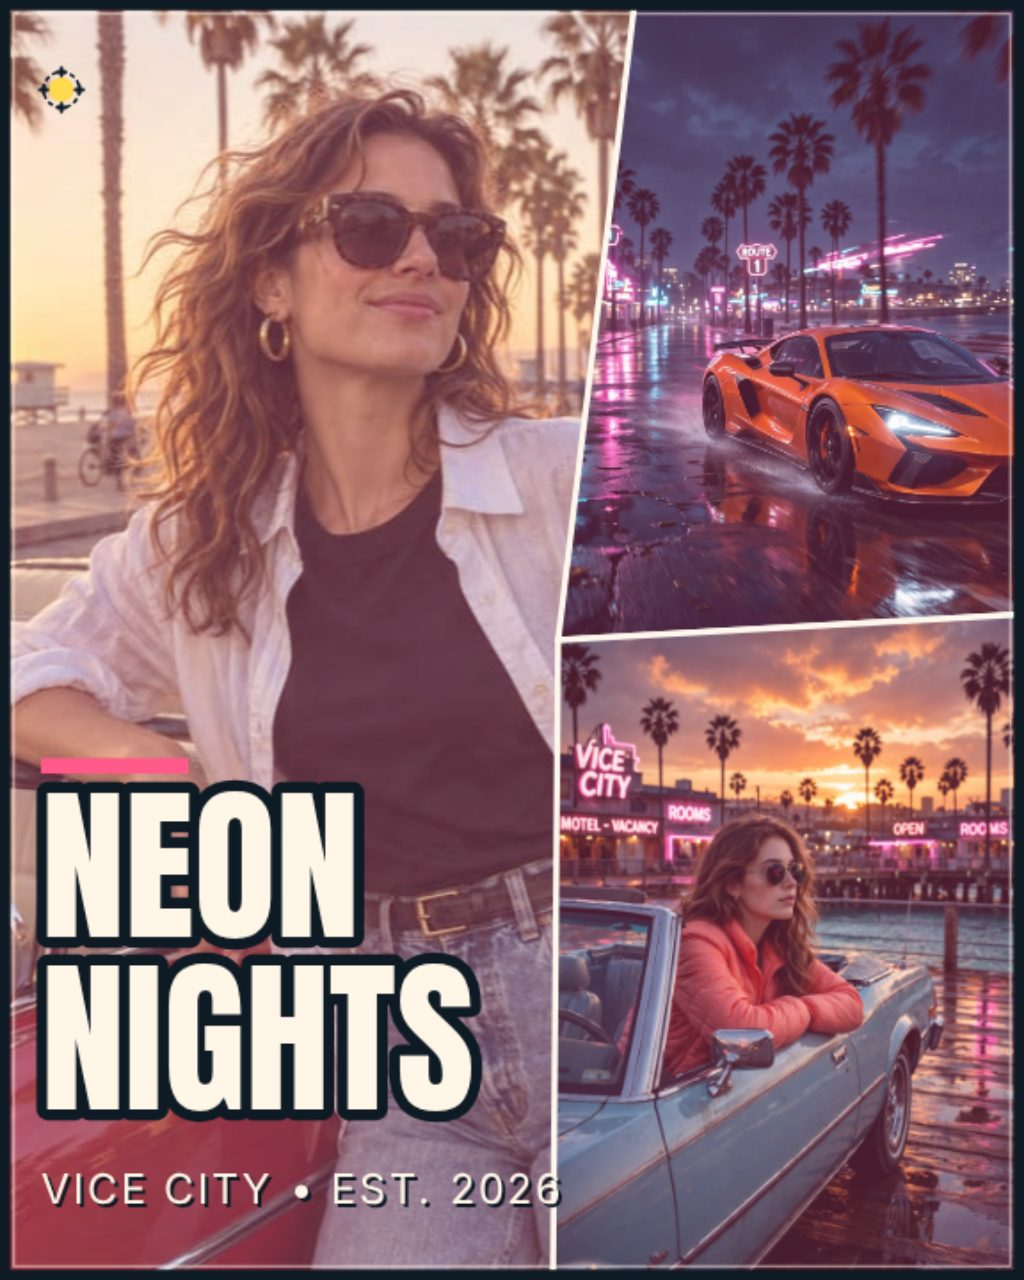
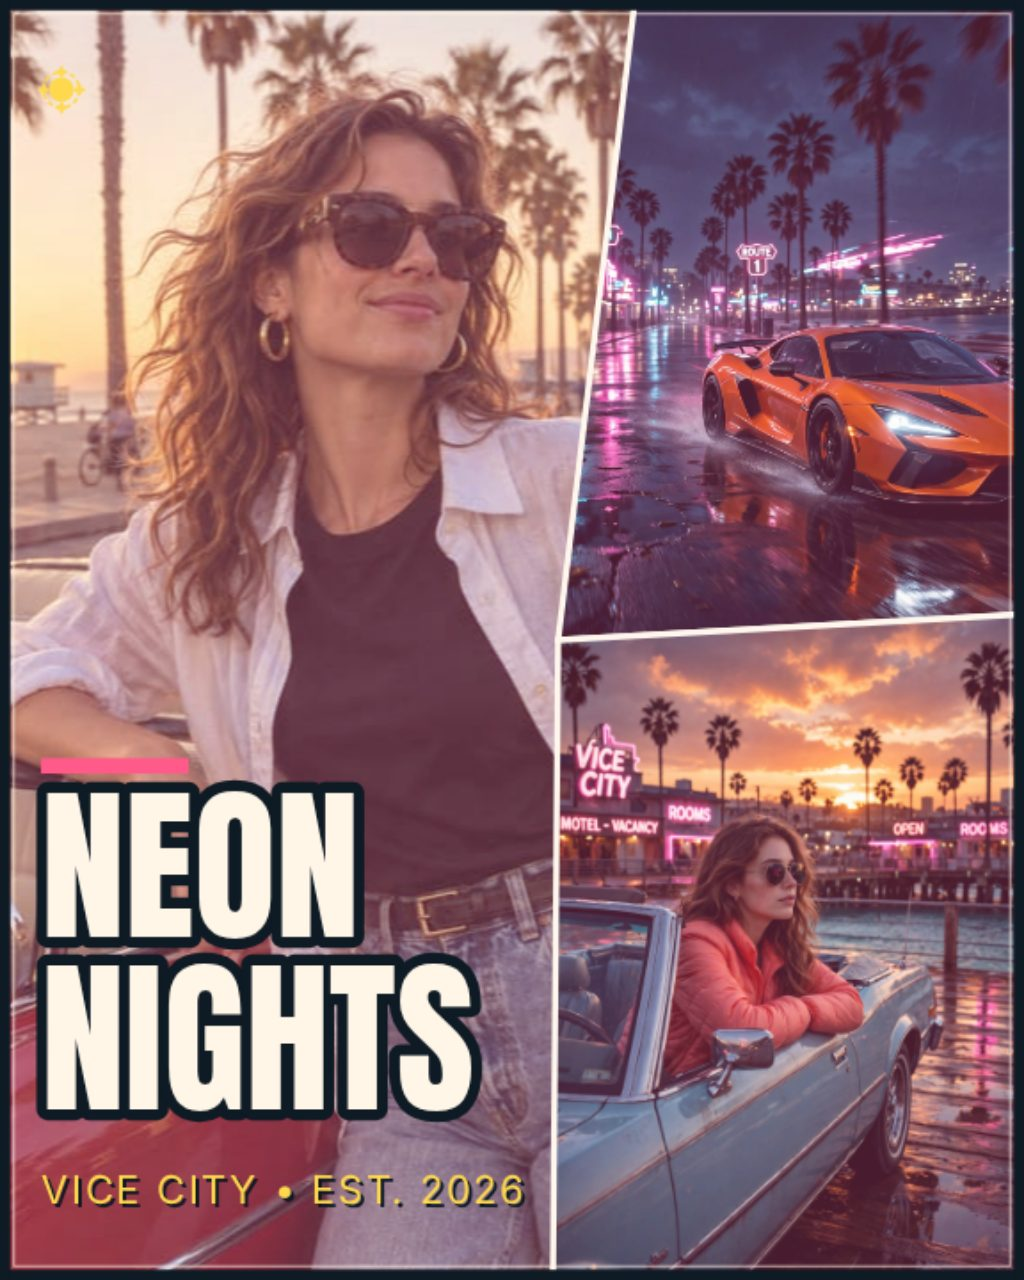
Sunset Press v3 iter 3 — sub + badge ring/ticks sun yellow, caption diagonal margin

Changed region(s): [[0.0312, 0.9062, 0.5625, 0.9688], [0.0312, 0.0312, 0.0938, 0.0938]]

diff --git a/app/src/render.js b/app/src/render.js
@@ -116,7 +116,8 @@ function drawBadge(ctx, cx, cy, r) {
   ctx.beginPath();
   ctx.arc(cx, cy, r, 0, Math.PI * 2);
   ctx.fill();
-  ctx.strokeStyle = INK;
+  // Golden ring + ticks are sun yellow, not ink.
+  ctx.strokeStyle = SUN;
   ctx.lineWidth = Math.max(1.5, r * 0.12);
   ctx.setLineDash([r * 0.45, r * 0.3]);
   ctx.beginPath();
@@ -134,7 +135,7 @@ function drawBadge(ctx, cx, cy, r) {
     ctx.lineTo(ox + t, oy);
     ctx.moveTo(ox, oy - t);
     ctx.lineTo(ox, oy + t);
-    ctx.strokeStyle = INK;
+    ctx.strokeStyle = SUN;
     ctx.stroke();
   }
   ctx.restore();
@@ -151,7 +152,9 @@ function drawCaption(ctx, W, H, state, layout) {
   // Caption box: from the left margin to the hero edge at the caption line.
   const anchorY = bottom ? 0.12 : 0.88;
   const heroRight = edgeAt(hero.points, anchorY) * W;
-  const maxW = Math.min(0.88 * W, Math.max(0.3 * W, heroRight - 0.04 * W));
+  // Leave a 0.03W safety margin to the diagonal: the caption must end
+  // clearly inside the hero, never flush against the panel cut.
+  const maxW = Math.min(0.88 * W, Math.max(0.3 * W, heroRight - 0.07 * W));
   const fit = fitCaption(ctx, state.caption.toUpperCase(), maxW, nominal);
   const lineH = fit.size * 1.02;
   const blockH = lineH * fit.lines.length;
@@ -195,7 +198,8 @@ function drawCaption(ctx, W, H, state, layout) {
   }
   ctx.fillStyle = INK;
   ctx.fillText(state.sub.toUpperCase(), 0.04 * W + 2, subY + 2);
-  ctx.fillStyle = '#FFF6E8';
+  // Golden sub-caption is sun yellow, not paper white.
+  ctx.fillStyle = SUN;
   ctx.fillText(state.sub.toUpperCase(), 0.04 * W, subY);
   try {
     ctx.letterSpacing = '0px';
